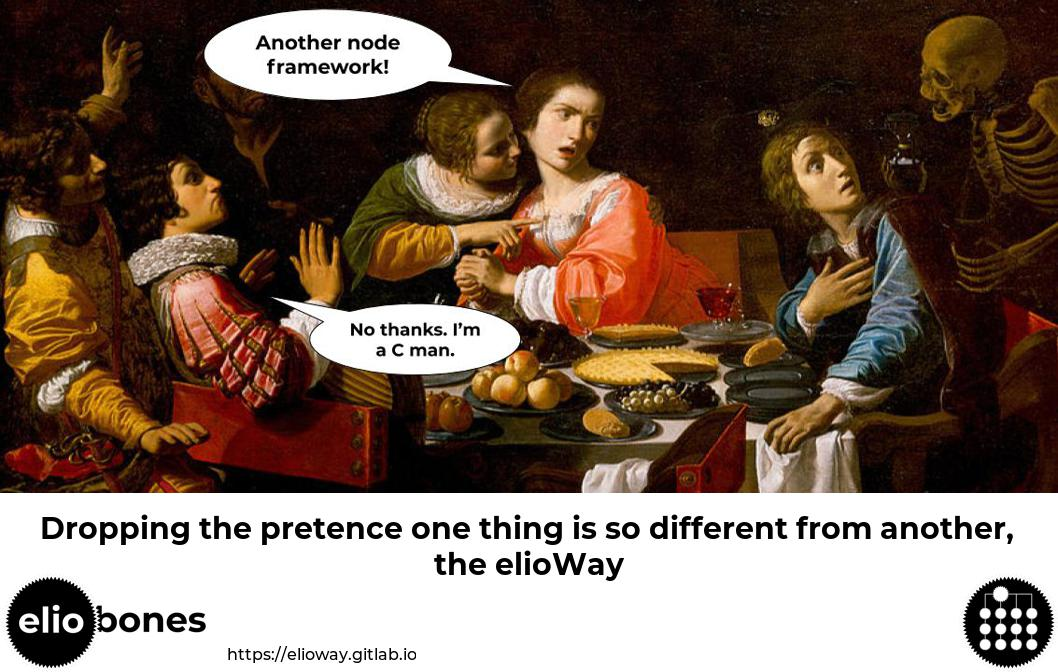
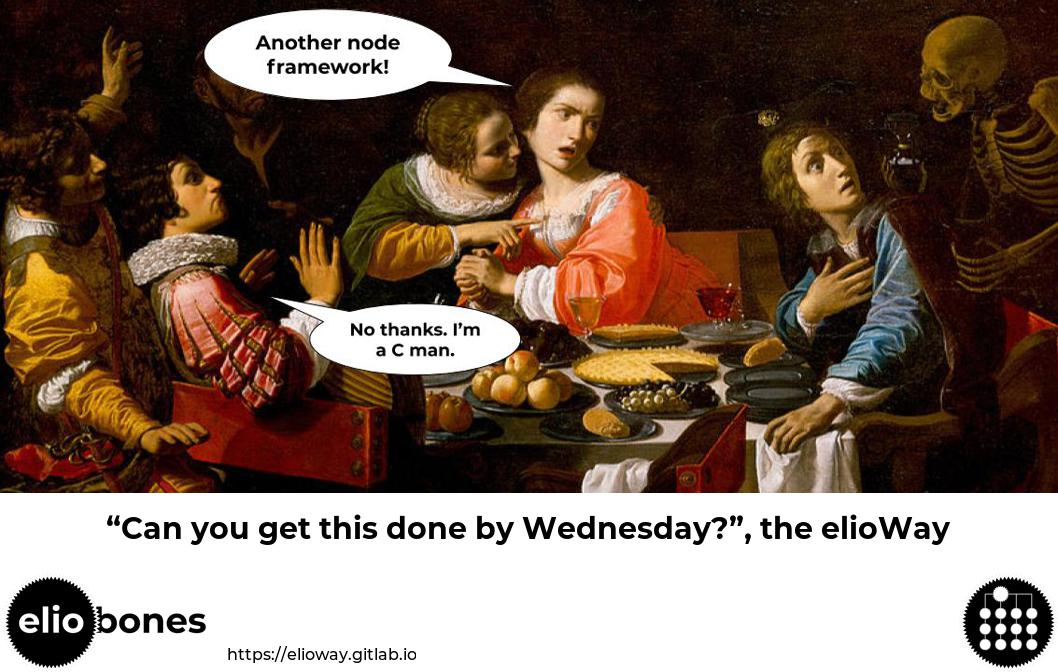
artwork+docs

Changed region(s): [[0.0312, 0.75, 0.9669, 0.875], [0.0936, 0.9062, 0.1871, 0.9375]]

diff --git a/doc/index.md b/doc/index.md
@@ -1,7 +1,7 @@
 # bones
-> Dropping the pretence one thing is so different from another. **the ElioWay**
+> "Can you get this done by Wednesday?" **Rosalind Codrington**
 **bones** REST API for Schema.org mongoose schema spidered the elioWay.
-![experimental](https://elioway.gitlab.io/static/experimental.png 'experimental')
+![experimental](https://elioway.gitlab.io/static/experimental.png "experimental")
 <div><a href="installing.html">
   <button>Installing</button>
 </a>
